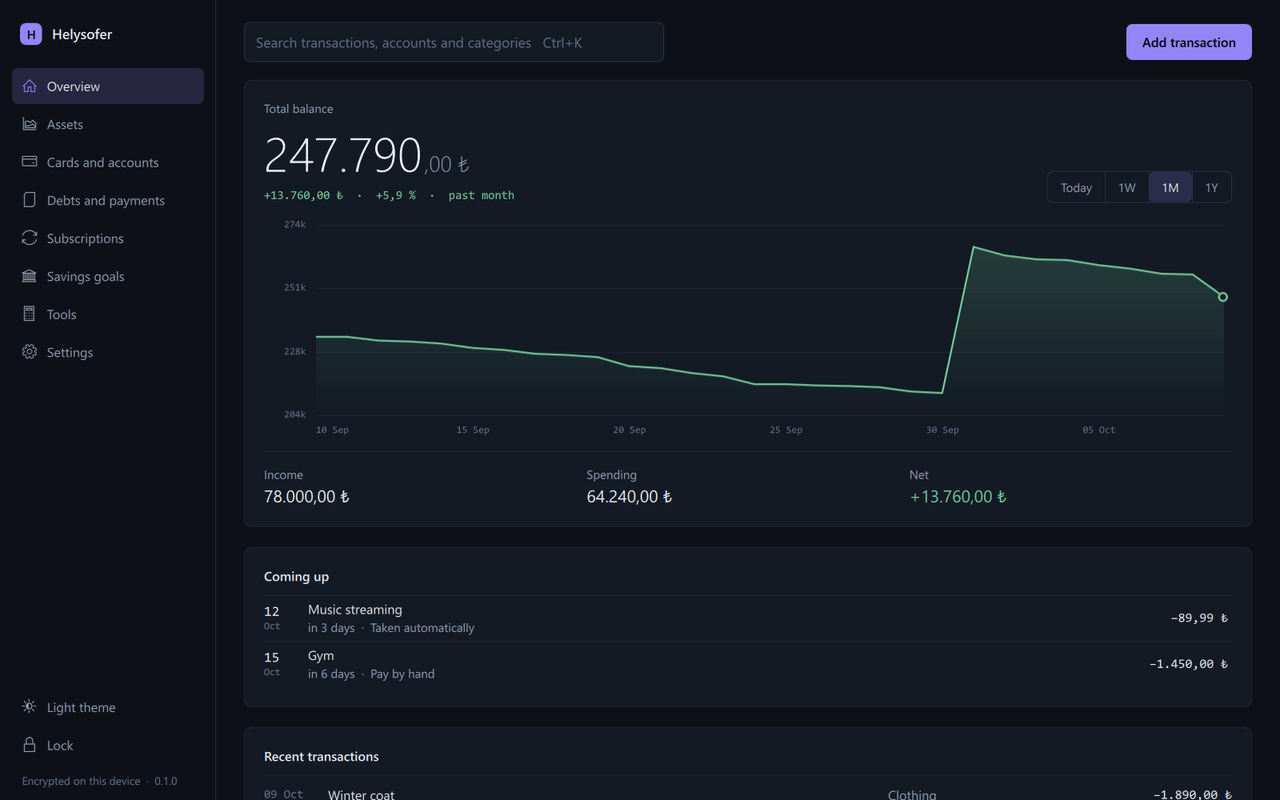
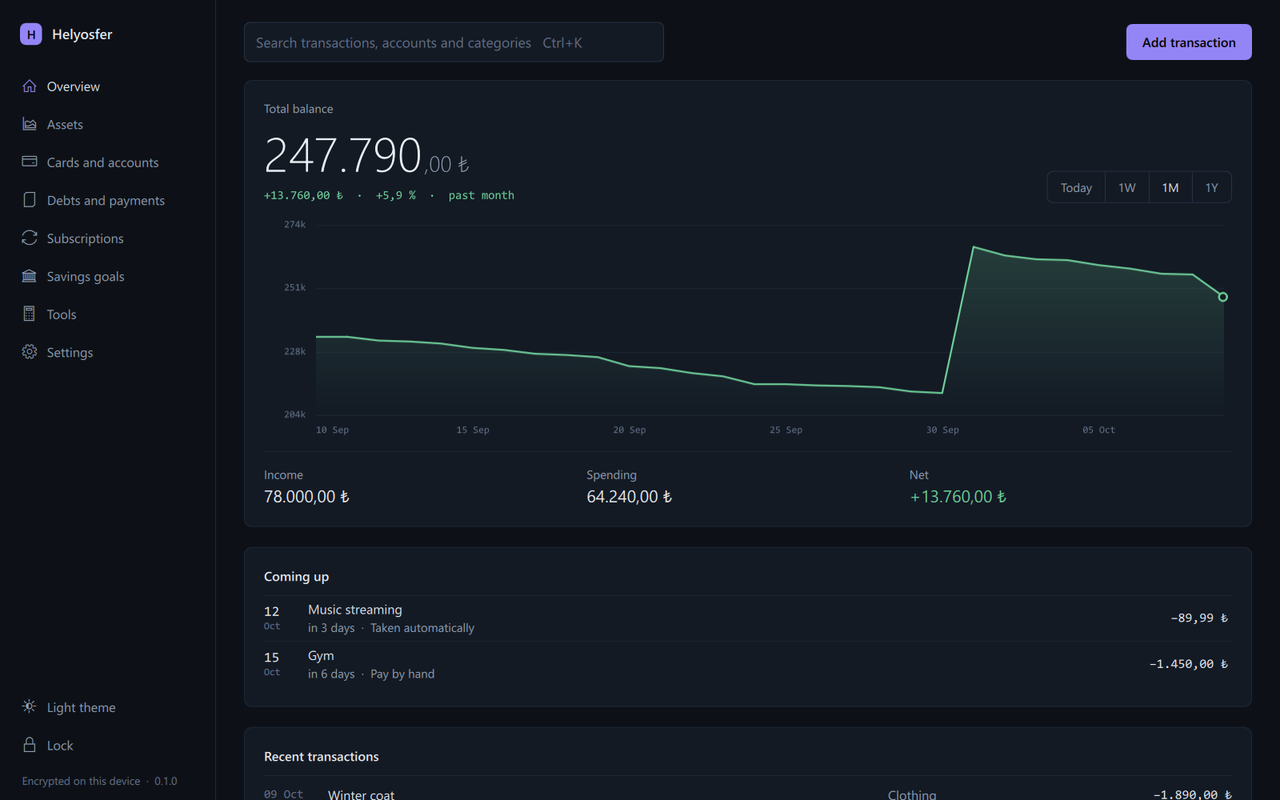
Retake the README screenshots
They showed the application under its earlier spelling and before a
card was drawn as a card.

Changed region(s): [[0.0, 0.0312, 0.1562, 0.1562], [0.875, 0.2188, 0.9375, 0.25]]

diff --git a/README.md b/README.md
@@ -12,9 +12,9 @@ and portfolio tracking.
 
 ![The overview: total balance, its chart, upcoming payments and recent transactions](docs/images/overview.png)
 
-| Budget plan | Light theme |
-| --- | --- |
-| ![Spending against the monthly plan](docs/images/budget.png) | ![The overview in the light theme](docs/images/overview-light.png) |
+| Cards and accounts | Budget plan | Light theme |
+| --- | --- | --- |
+| ![Accounts, and a credit card drawn as a card](docs/images/accounts.png) | ![Spending against the monthly plan](docs/images/budget.png) | ![The overview in the light theme](docs/images/overview-light.png) |
 
 ## What it covers
 
